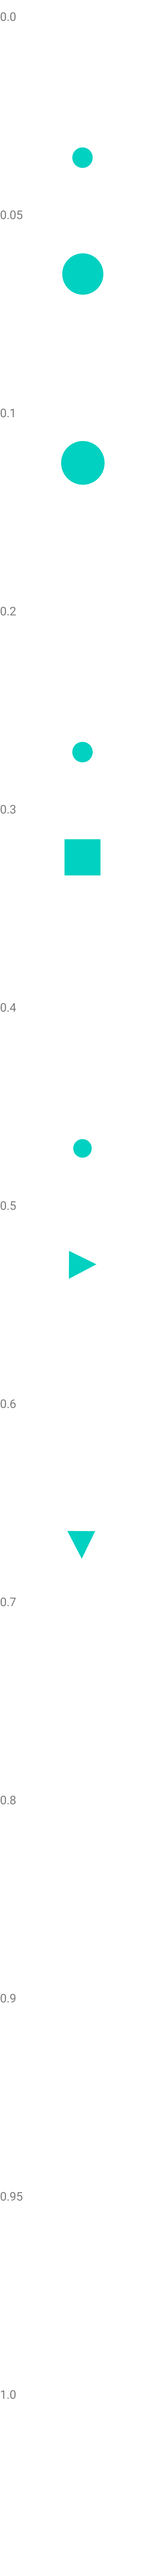
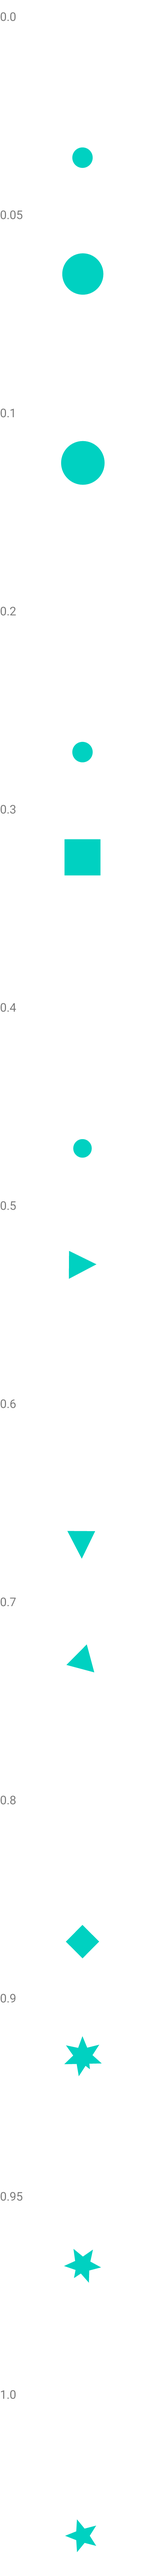
Added support for polystars and polygons

diff --git a/lottie/src/main/java/com/airbnb/lottie/PolystarContent.java b/lottie/src/main/java/com/airbnb/lottie/PolystarContent.java
@@ -1,0 +1,285 @@
+package com.airbnb.lottie;
+
+import android.graphics.Path;
+import android.graphics.PointF;
+import android.support.annotation.Nullable;
+
+import java.util.List;
+
+class PolystarContent implements Content, PathContent {
+  /**
+   * This was empirically derived by creating polystars, converting them to
+   * curves, and calculating a scale factor.
+   * It works best for polygons and stars with 3 points and needs more
+   * work otherwise.
+   */
+  private static final float POLYSTAR_MAGIC_NUMBER = .47829f;
+  private static final float POLYGON_MAGIC_NUMBER = .25f;
+  private final Path path = new Path();
+
+  private final LottieDrawable lottieDrawable;
+  private final PolystarShape.Type type;
+  private final BaseKeyframeAnimation<?, Float> pointsAnimation;
+  private final BaseKeyframeAnimation<?, PointF> positionAnimation;
+  private final BaseKeyframeAnimation<?, Float> rotationAnimation;
+  @Nullable private final BaseKeyframeAnimation<?, Float> innerRadiusAnimation;
+  private final BaseKeyframeAnimation<?, Float> outerRadiusAnimation;
+  @Nullable private final BaseKeyframeAnimation<?, Float> innerRoundednessAnimation;
+  private final BaseKeyframeAnimation<?, Float> outerRoundednessAnimation;
+
+  @Nullable private TrimPathContent trimPath;
+  private boolean isPathValid;
+
+  PolystarContent(LottieDrawable lottieDrawable, BaseLayer layer, PolystarShape polystarShape) {
+    this.lottieDrawable = lottieDrawable;
+
+    type = polystarShape.getType();
+    pointsAnimation = polystarShape.getPoints().createAnimation();
+    positionAnimation = polystarShape.getPosition().createAnimation();
+    rotationAnimation = polystarShape.getRotation().createAnimation();
+    outerRadiusAnimation = polystarShape.getOuterRadius().createAnimation();
+    outerRoundednessAnimation = polystarShape.getOuterRoundedness().createAnimation();
+    if (type == PolystarShape.Type.Star) {
+      innerRadiusAnimation = polystarShape.getInnerRadius().createAnimation();
+      innerRoundednessAnimation = polystarShape.getInnerRoundedness().createAnimation();
+    } else {
+      innerRadiusAnimation = null;
+      innerRoundednessAnimation = null;
+    }
+
+    layer.addAnimation(pointsAnimation);
+    layer.addAnimation(positionAnimation);
+    layer.addAnimation(rotationAnimation);
+    layer.addAnimation(outerRadiusAnimation);
+    layer.addAnimation(outerRoundednessAnimation);
+    if (type == PolystarShape.Type.Star) {
+      layer.addAnimation(innerRadiusAnimation);
+      layer.addAnimation(innerRoundednessAnimation);
+    }
+
+    BaseKeyframeAnimation.AnimationListener<Float> floatListener =
+        new BaseKeyframeAnimation.AnimationListener<Float>() {
+          @Override public void onValueChanged(Float value) {
+            invalidate();
+          }
+        };
+    BaseKeyframeAnimation.AnimationListener<PointF> pointListener =
+        new BaseKeyframeAnimation.AnimationListener<PointF>() {
+          @Override public void onValueChanged(PointF value) {
+            invalidate();
+          }
+        };
+    pointsAnimation.addUpdateListener(floatListener);
+    positionAnimation.addUpdateListener(pointListener);
+    rotationAnimation.addUpdateListener(floatListener);
+    outerRadiusAnimation.addUpdateListener(floatListener);
+    outerRoundednessAnimation.addUpdateListener(floatListener);
+    if (type == PolystarShape.Type.Star) {
+      outerRadiusAnimation.addUpdateListener(floatListener);
+      outerRoundednessAnimation.addUpdateListener(floatListener);
+    }
+  }
+
+  private void invalidate() {
+    isPathValid = false;
+    lottieDrawable.invalidateSelf();
+  }
+
+  @Override public void setContents(List<Content> contentsBefore, List<Content> contentsAfter) {
+    for (int i = 0; i < contentsBefore.size(); i++) {
+      Content content = contentsBefore.get(i);
+      if (content instanceof TrimPathContent) {
+        trimPath = (TrimPathContent) content;
+        trimPath.addListener(new BaseKeyframeAnimation.SimpleAnimationListener() {
+          @Override public void onValueChanged() {
+            lottieDrawable.invalidateSelf();
+          }
+        });
+      }
+    }
+  }
+
+  @Override public Path getPath() {
+    if (isPathValid) {
+      return path;
+    }
+
+    path.reset();
+
+    switch (type) {
+      case Star:
+        createStarPath();
+        break;
+      case Polygon:
+        createPolygonPath();
+        break;
+    }
+
+    path.close();
+
+    Utils.applyTrimPathIfNeeded(path, trimPath);
+
+    isPathValid = false;
+    return path;
+  }
+
+  private void createStarPath() {
+    float points = pointsAnimation.getValue();
+    double currentAngle = rotationAnimation == null ? 0f : rotationAnimation.getValue();
+    // Start at +y instead of +x
+    currentAngle -= 90;
+    // convert to radians
+    currentAngle = Math.toRadians(currentAngle);
+    // adjust current angle for partial points
+    float anglePerPoint = (float) (2 * Math.PI / points);
+    float halfAnglePerPoint = anglePerPoint / 2.0f;
+    float partialPointAmount = points - (int) points;
+    if (partialPointAmount != 0) {
+      currentAngle += halfAnglePerPoint * (1f - partialPointAmount);
+    }
+
+    float outerRadius = outerRadiusAnimation.getValue();
+    //noinspection ConstantConditions
+    float innerRadius = innerRadiusAnimation.getValue();
+
+    float innerRoundedness = 0f;
+    if (innerRoundednessAnimation != null) {
+      innerRoundedness = innerRoundednessAnimation.getValue() / 100f;
+    }
+    float outerRoundedness = 0f;
+    if (outerRoundednessAnimation != null) {
+      outerRoundedness = outerRoundednessAnimation.getValue() / 100f;
+    }
+
+    float x;
+    float y;
+    float previousX;
+    float previousY;
+    float partialPointRadius = 0;
+    if (partialPointAmount != 0) {
+      partialPointRadius = innerRadius + partialPointAmount * (outerRadius - innerRadius);
+      x = (float) (partialPointRadius * Math.cos(currentAngle));
+      y = (float) (partialPointRadius * Math.sin(currentAngle));
+      path.moveTo(x, y);
+      currentAngle += anglePerPoint * partialPointAmount / 2f;
+    } else {
+      x = (float) (outerRadius * Math.cos(currentAngle));
+      y = (float) (outerRadius * Math.sin(currentAngle));
+      path.moveTo(x, y);
+      currentAngle += halfAnglePerPoint;
+    }
+
+    // True means the line will go to outer radius. False means inner radius.
+    boolean longSegment = false;
+    double numPoints = Math.ceil(points) * 2;
+    for (int i = 0; i < numPoints; i++) {
+      float radius = longSegment ? outerRadius : innerRadius;
+      float dTheta = halfAnglePerPoint;
+      if (partialPointRadius != 0 && i == numPoints - 2) {
+        dTheta = anglePerPoint * partialPointAmount / 2f;
+      }
+      if (partialPointRadius != 0 && i == numPoints - 1) {
+        radius = partialPointRadius;
+      }
+      previousX = x;
+      previousY = y;
+      x = (float) (radius * Math.cos(currentAngle));
+      y = (float) (radius * Math.sin(currentAngle));
+
+      if (innerRoundedness == 0 && outerRoundedness == 0) {
+        path.lineTo(x, y);
+      } else {
+        float cp1Theta = (float) (Math.atan2(previousY, previousX) - Math.PI / 2f);
+        float cp1Dx = (float) Math.cos(cp1Theta);
+        float cp1Dy = (float) Math.sin(cp1Theta);
+
+        float cp2Theta = (float) (Math.atan2(y, x) - Math.PI / 2f);
+        float cp2Dx = (float) Math.cos(cp2Theta);
+        float cp2Dy = (float) Math.sin(cp2Theta);
+
+        float cp1Roundedness = longSegment ? innerRoundedness : outerRoundedness;
+        float cp2Roundedness = longSegment ? outerRoundedness : innerRoundedness;
+        float cp1Radius = longSegment ? innerRadius : outerRadius;
+        float cp2Radius = longSegment ? outerRadius : innerRadius;
+
+        float cp1x = cp1Radius * cp1Roundedness * POLYSTAR_MAGIC_NUMBER * cp1Dx;
+        float cp1y = cp1Radius * cp1Roundedness * POLYSTAR_MAGIC_NUMBER * cp1Dy;
+        float cp2x = cp2Radius * cp2Roundedness * POLYSTAR_MAGIC_NUMBER * cp2Dx;
+        float cp2y = cp2Radius * cp2Roundedness * POLYSTAR_MAGIC_NUMBER * cp2Dy;
+        if (partialPointAmount != 0) {
+          if (i == 0) {
+            cp1x *= partialPointAmount;
+            cp1y *= partialPointAmount;
+          } else if (i == numPoints - 1) {
+            cp2x *= partialPointAmount;
+            cp2y *= partialPointAmount;
+          }
+        }
+
+        path.cubicTo(previousX - cp1x,previousY - cp1y, x + cp2x, y + cp2y, x, y);
+      }
+
+      currentAngle += dTheta;
+      longSegment = !longSegment;
+    }
+
+
+    PointF position = positionAnimation.getValue();
+    path.offset(position.x, position.y);
+    path.close();
+  }
+
+  private void createPolygonPath() {
+    int points = (int) Math.floor(pointsAnimation.getValue());
+    double currentAngle = rotationAnimation == null ? 0f : rotationAnimation.getValue();
+    // Start at +y instead of +x
+    currentAngle -= 90;
+    // convert to radians
+    currentAngle = Math.toRadians(currentAngle);
+    // adjust current angle for partial points
+    float anglePerPoint = (float) (2 * Math.PI / points);
+
+    float roundedness = outerRoundednessAnimation.getValue() / 100f;
+    float radius = outerRadiusAnimation.getValue();
+    float x;
+    float y;
+    float previousX;
+    float previousY;
+    x = (float) (radius * Math.cos(currentAngle));
+    y = (float) (radius * Math.sin(currentAngle));
+    path.moveTo(x, y);
+    currentAngle += anglePerPoint;
+
+    double numPoints = Math.ceil(points);
+    for (int i = 0; i < numPoints; i++) {
+      previousX = x;
+      previousY = y;
+      x = (float) (radius * Math.cos(currentAngle));
+      y = (float) (radius * Math.sin(currentAngle));
+
+      if (roundedness != 0) {
+        float cp1Theta = (float) (Math.atan2(previousY, previousX) - Math.PI / 2f);
+        float cp1Dx = (float) Math.cos(cp1Theta);
+        float cp1Dy = (float) Math.sin(cp1Theta);
+
+        float cp2Theta = (float) (Math.atan2(y, x) - Math.PI / 2f);
+        float cp2Dx = (float) Math.cos(cp2Theta);
+        float cp2Dy = (float) Math.sin(cp2Theta);
+
+        float cp1x = radius * roundedness * POLYGON_MAGIC_NUMBER * cp1Dx;
+        float cp1y = radius * roundedness * POLYGON_MAGIC_NUMBER * cp1Dy;
+        float cp2x = radius * roundedness * POLYGON_MAGIC_NUMBER * cp2Dx;
+        float cp2y = radius * roundedness * POLYGON_MAGIC_NUMBER * cp2Dy;
+        path.cubicTo(previousX - cp1x,previousY - cp1y, x + cp2x, y + cp2y, x, y);
+      } else {
+        path.lineTo(x, y);
+      }
+
+      currentAngle += anglePerPoint;
+    }
+
+    PointF position = positionAnimation.getValue();
+    path.offset(position.x, position.y);
+    path.close();
+  }
+}

diff --git a/lottie/src/main/java/com/airbnb/lottie/ContentGroup.java b/lottie/src/main/java/com/airbnb/lottie/ContentGroup.java
@@ -50,6 +50,8 @@ class ContentGroup implements Content, DrawingContent, PathContent {
         contents.add(new EllipseContent(lottieDrawable, layer, (CircleShape) item));
       } else if (item instanceof ShapePath) {
         contents.add(new ShapeContent(lottieDrawable, layer, (ShapePath) item));
+      } else if (item instanceof PolystarShape) {
+        contents.add(new PolystarContent(lottieDrawable, layer, (PolystarShape) item));
       } else if (item instanceof ShapeTrimPath) {
         contents.add(new TrimPathContent(layer, (ShapeTrimPath) item));
       }
